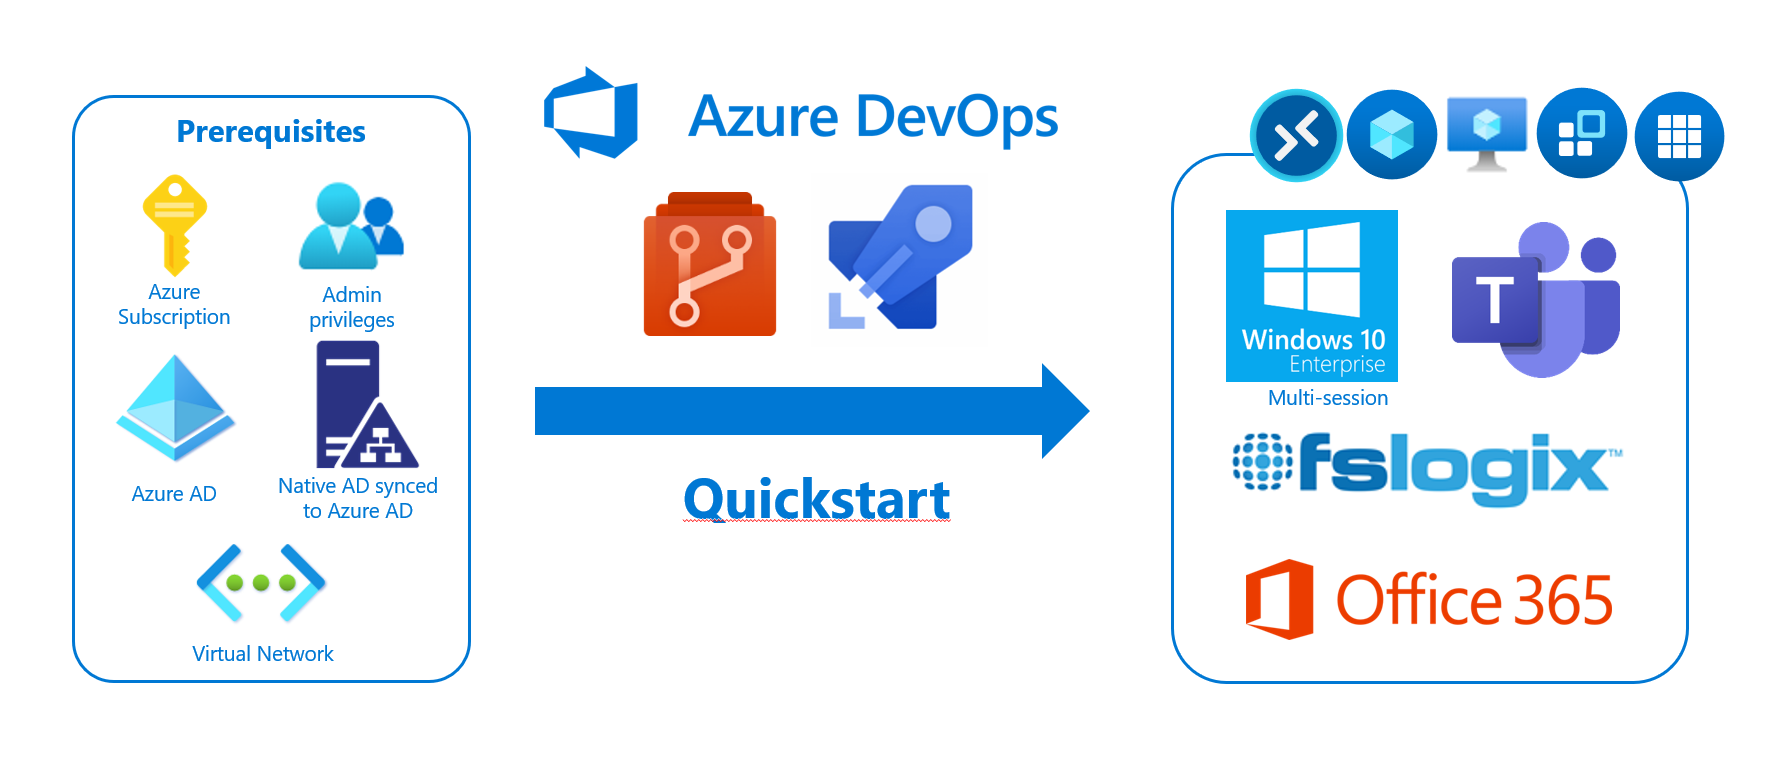
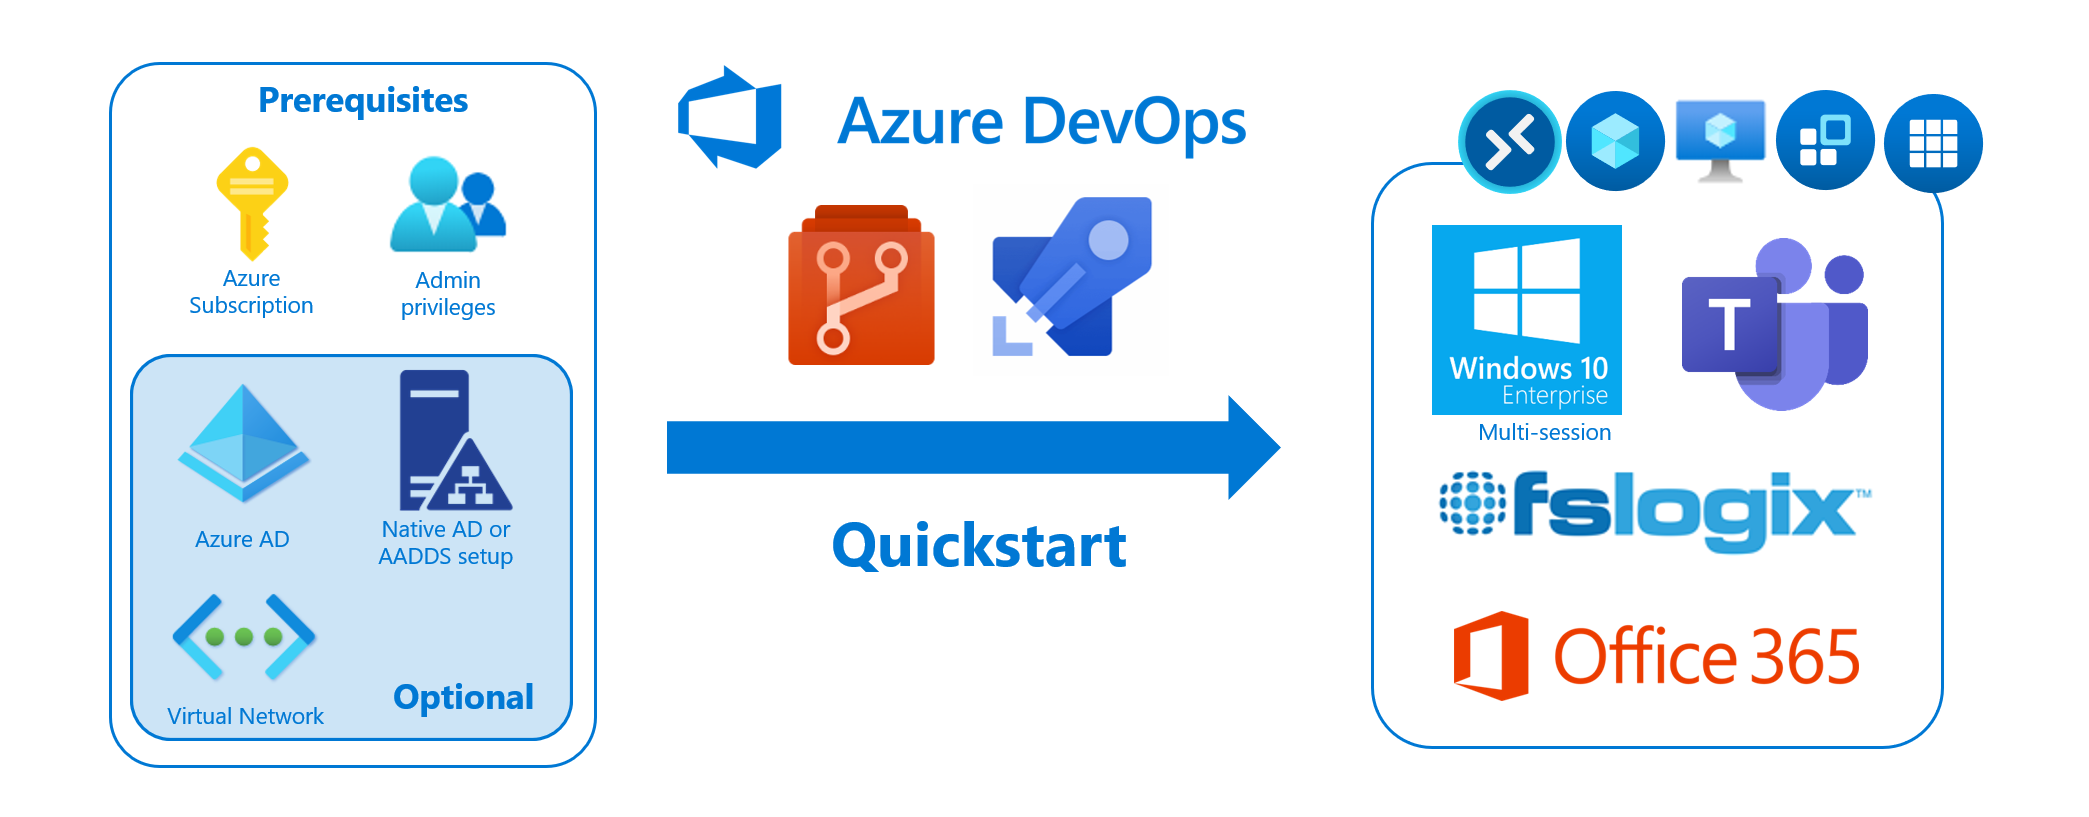
update material

diff --git a/repo.md b/repo.md
@@ -12,6 +12,7 @@ On this page, you'll find an in-depth breakdown of all the files associated with
 
 The folder structure in the master branch is as follows:
 
+* <a href="https://github.com/samvdjagt/wvdquickstart/tree/master/AADDS" target="_blank">ARMRunbookScripts</a>: In this folder, there's the QuickStart ARM template that is used when you start with an empty subscription.
 * <a href="https://github.com/samvdjagt/wvdquickstart/tree/master/ARMRunbookScripts" target="_blank">ARMRunbookScripts</a>: In this folder, a number of custom scripts are located that are run by the ARM deployment, either through an automation runbook or a deployment script.
   * <a href="https://github.com/samvdjagt/wvdquickstart/tree/master/ARMRunbookScripts/static" target="_blank">/static</a>: In this folder, some PowerShell modules required by the above scripts are located
 * <a href="https://github.com/samvdjagt/wvdquickstart/tree/master/Modules/ARM" target="_blank">Modules/ARM</a>: This folder contains modular ARM templates that are called by the DevOps automation to deploy Azure resources. For every resource, there's a dedicated deploy.json file, as well as a parameters file, pipeline file, and a testing script. These files are generic and should typically not be modified.
@@ -27,9 +28,11 @@ The folder structure in the master branch is as follows:
 
 ### <b>ARMRunbookScripts</b>
 * <a href="https://github.com/samvdjagt/wvdquickstart/tree/master/ARMRunbookScripts/checkCredentials.ps1" target="_blank">checkCredentials.ps1</a>: This script makes sure that the entered Azure Admin credentials are correct, in addition to validating the vnet, subnet, and firewall configuration. This script also configures the 'WVDServicePrincipal' managed identity in the deployment resource group to give it the *contributor* role on the subscription. This is needed to run deployment scripts in the main ARM template successfully.
+  * <a href="https://github.com/samvdjagt/wvdquickstart/tree/master/ARMRunbookScripts/AADDScheckCredentials.ps1" target="_blank">AADDScheckCredentials.ps1</a>: This script is an adapted version of the script above, and is only used when using the QuickStart starting with an empty subscription.
 * <a href="https://github.com/samvdjagt/wvdquickstart/tree/master/ARMRunbookScripts/createDevopsPipeline.sh" target="_blank">createDevopsPipeline.sh</a>: This Azure CLI script creates and starts a DevOps pipeline in the newly created DevOps project.
 * <a href="https://github.com/samvdjagt/wvdquickstart/tree/master/ARMRunbookScripts/createServicePrincipal.ps1" target="_blank">createServicePrincipal.ps1</a>: This script creates the AAD application service principal used to create a service connection between the Azure subscription and the DevOps project. If the application already exists, this script will update the existing one with the right permissions.
 * <a href="https://github.com/samvdjagt/wvdquickstart/tree/master/ARMRunbookScripts/devopssetup.ps1" target="_blank">devopssetup.ps1</a>: This script makes a number of REST API calls to create a DevOps project, a service connection between the Azure Subscription and the DevOps project, to initialize the DevOps repository with all the required files, to set some permissions in DevOps, and to generate the main automation parameter files: appliedParmeters.psd1 and variables.yml.
+  * <a href="https://github.com/samvdjagt/wvdquickstart/tree/master/ARMRunbookScripts/AADDSdevopssetup.ps1" target="_blank">AADDSdevopssetup.ps1</a>: This script is an adapted version of the script above, and is only used when using the QuickStart starting with an empty subscription.
 
 #### <a href="https://github.com/samvdjagt/wvdquickstart/tree/master/ARMRunbookScripts/static" target="_blank">ARMRunbookScripts/static</a>
 The azuremodules.zip in this folder contains the following PowerShell modules:

diff --git a/howtoEmpty.md b/howtoEmpty.md
@@ -5,7 +5,7 @@ filename: howto
 ---
 
 ## <b>How To Use The WVD QuickStart With an Empty Subscription</b>
-On this page the process of using the WVD QuickStart with an empty Azure subscription is laid out from start to finish. The QuickStart will configure Windows Virtual Desktop as well as Azure Active Directory Domain Services for you. All that is required is an empty Azure subscription as listed below, and after clicking one button, WVD will be ready for use within 2 hours. The video below shows a walkthrough of the entire deployment process.
+On this page, the process of using the WVD QuickStart with an empty Azure subscription is laid out from start to finish. The QuickStart will configure Windows Virtual Desktop as well as an Azure Active Directory Domain Services managed domain for you. All that is required is an empty Azure subscription as listed below, and after clicking one button, WVD will be ready for use within 2 hours. The video below shows a walkthrough of the entire deployment process.
 
 <iframe width="784" height="441" src="https://www.youtube.com/embed/Tz3KgruovYc" frameborder="0" allow="accelerometer; autoplay; encrypted-media; gyroscope; picture-in-picture" allowfullscreen></iframe>
 

diff --git a/howtoExisting.md b/howtoExisting.md
@@ -5,9 +5,8 @@ filename: howto
 ---
 
 ## <b>How To Deploy With The WVD QuickStart</b>
-
+On this page, the process of using the WVD QuickStart with a pre-existing Native AD or Azure AD DS setup is laid out from start to finish. The QuickStart will configure Windows Virtual Desktop using your existing setup, of which the prerequisites are outlined below. The video below shows a walkthrough of the entire deployment process, including the manual setup of a Native AD environment, should you want to create one.
 <iframe width="784" height="441" src="https://www.youtube.com/embed/Tz3KgruovYc" frameborder="0" allow="accelerometer; autoplay; encrypted-media; gyroscope; picture-in-picture" allowfullscreen></iframe>
-The video above shows you a full end-to-end deployment with the WVD QuickStart, including the configuration of the prerequisites listed below.
 
 ### <b>Prerequisites</b>
 In order to successfully deploy a WVD environment with the QuickStart, a couple of prerequisites need to be satisfied beforehand. All of these prerequisites are listed below, together with links to documentation that can help you with setting them up.
